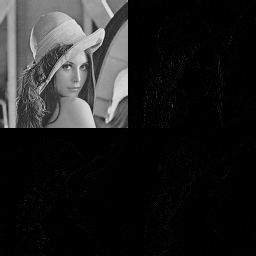
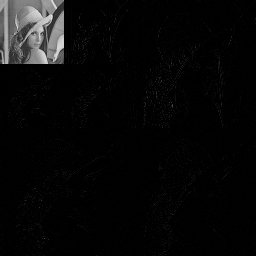
d_a is first attempt on image test1_512.png

Changed region(s): [[0.0, 0.0, 0.5, 0.5]]

diff --git a/d_a.py b/d_a.py
@@ -172,8 +172,9 @@ def fwt97_int(s, width, height):
         # for a height of 256 i goes 1, 3, 5...253
         # for a height of 512 i goes 1, 3, 5...509
         for row in range(1, height-1, 2):
-            s[row][col] += a1 * (s[row-1][col] + s[row+1][col])   
-        s[height-1][col] += 2 * a1 * s[height-2][col] # Symmetric extension
+            #s[row][col] += a1 * (s[row-1][col] + s[row+1][col]) 
+            s[row][col] += s[row][col] - (0.5 * ((s[row-1][col] + s[row+1][col])))  
+        #s[height-1][col] += 2 * a1 * s[height-2][col] # Symmetric extension
         # this is working on sample at the end
 		#  for height 256 works on sample 255 using 2*a1* sample 254
 		
@@ -185,8 +186,9 @@ def fwt97_int(s, width, height):
         # for a height of 512 i goes 2, 4, 6...510
 
         for row in range(2, height, 2):
-            s[row][col] += a2 * (s[row-1][col] + s[row+1][col])
-        s[0][col] +=  2 * a2 * s[1][col] # Symmetric extension
+            #s[row][col] += a2 * (s[row-1][col] + s[row+1][col])
+            s[row][col] += s[row][col] + .25* (s[row-1][col] + s[row+1][col])
+        #s[0][col] +=  2 * a2 * s[1][col] # Symmetric extension
  		# this is working on sample at the beginning
 		# for for height 256 works on sample 0 using 2*a2* sample 1
 		# Predict 2.
@@ -196,8 +198,9 @@ def fwt97_int(s, width, height):
         # for a height of 256 i goes 1, 3, 5...253
         # for a height of 512 i goes 1, 3, 5...509        
         for row in range(1, height-1, 2):
-            s[row][col] += a3 * (s[row-1][col] + s[row+1][col])
-        s[height-1][col] += 2 * a3 * s[height-2][col]# Symmetric extension
+            #s[row][col] += a3 * (s[row-1][col] + s[row+1][col])
+            s[row][col] += s[row][col] - (0.5 * ((s[row-1][col] + s[row+1][col])))
+        #s[height-1][col] += 2 * a3 * s[height-2][col]# Symmetric extension
         # this is working on sample at the end
 		#  for height 256 works on sample 255 using 2*a3* sample 254  
 		      
@@ -208,8 +211,9 @@ def fwt97_int(s, width, height):
         # for a height of 256 i goes 2, 4, 6...254
         # for a height of 512 i goes 2, 4, 6...510
         for row in range(2, height, 2):
-            s[row][col] += a4 * (s[row-1][col] + s[row+1][col])
-        s[0][col] += 2 * a4 * s[1][col]# Symmetric extension
+            #s[row][col] += a4 * (s[row-1][col] + s[row+1][col])
+            s[row][col] += s[row][col] + .25* (s[row-1][col] + s[row+1][col])
+        #s[0][col] += 2 * a4 * s[1][col]# Symmetric extension
 		# this is working on sample at the beginning
 		# for for height 256 works on sample 0 using 2*a4* sample 1
           
@@ -225,10 +229,11 @@ def fwt97_int(s, width, height):
             # k1 and k2 scale the vals
             # simultaneously transpose the matrix when deinterleaving
             if row % 2 == 0: # even
-                temp_bank[col][row/2] = k1 * s[row][col]
+                #temp_bank[col][row/2] = k1 * s[row][col]
+                temp_bank[col][row/2] = s[row][col]
             else:            # odd
-                temp_bank[col][row/2 + height/2] = k2 * s[row][col]
-                
+                #temp_bank[col][row/2 + height/2] = k2 * s[row][col]
+                temp_bank[col][row/2 + height/2] = s[row][col]
     # write temp_bank to s:
     # replaces the new values of s left and right back in s
     for row in range(width):
@@ -246,8 +251,8 @@ def seq_to_img(m, pix):
 #im is an instance provided by PIL
 #im is 2-d im[0] & im[1] are the sizes
 #Using PIL to read image
-#im = wavelet97lift.Image.open("python_dwt/test1_512.png")
-im = wavelet97lift.Image.open("lena_256.pgm")
+im = wavelet97lift.Image.open("python_dwt/test1_512.png")
+#im = wavelet97lift.Image.open("lena_256.pgm")
 
 # Create an image buffer object for fast access.
 pix = im.load()
@@ -271,8 +276,8 @@ m = [m[i:i+im.size[0]] for i in range(0, len(m), im.size[0])]
 m = fwt97_2d_int(m, 1)	
     	 
 #pix[col,row] = m[row][col]	
-#seq_to_img(m, pix) # Convert the list of lists matrix to an image.		
-#im.save("iwt.png") # Save the inverse transformation.
+seq_to_img(m, pix) # Convert the list of lists matrix to an image.		
+im.save("fwt.png") # Save the inverse transformation.
   		
 		
 		

diff --git a/python_dwt/wavelet97lift.py b/python_dwt/wavelet97lift.py
@@ -179,7 +179,7 @@ def seq_to_img(m, pix):
             
 if __name__ == "__main__":
     # Load image.
-    im = Image.open("test1_512.png") # Must be a single band image! (grey)
+    im = Image.open("lena_256.png") # Must be a single band image! (grey)
 
     # Create an image buffer object for fast access.
     pix = im.load()
@@ -200,11 +200,11 @@ if __name__ == "__main__":
     m = fwt97_2d(m, 3)
     
     seq_to_img(m, pix) # Convert the list of lists matrix to an image.
-    im.save("test1_512_fwt.png") # Save the transformed image.
+    im.save("lena_256_fwt.png") # Save the transformed image.
     
     # Perform an inverse transform:
     m = iwt97_2d(m, 3)
     
     seq_to_img(m, pix) # Convert the inverse list of lists matrix to an image.
-    im.save("test1_512_iwt.png") # Save the inverse transformation.
+    im.save("lena_256_iwt.png") # Save the inverse transformation.
     

diff --git a/python_dwt/test_wavelet97lift.py b/python_dwt/test_wavelet97lift.py
@@ -1,6 +1,6 @@
 
 import  wavelet97lift
-im = wavelet97lift.Image.open("lena_256.png")
+im = wavelet97lift.Image.open("../lena_512.png")
 pix = im.load()
 m = list(im.getdata())
 m = [m[i:i+im.size[0]] for i in range(0, len(m), im.size[0])]

diff --git a/bmptopng.py b/bmptopng.py
@@ -1,0 +1,3 @@
+from PIL import Image
+im = Image.open("/home/vidal/lena.bmp")
+im.save("lena_512.png")
